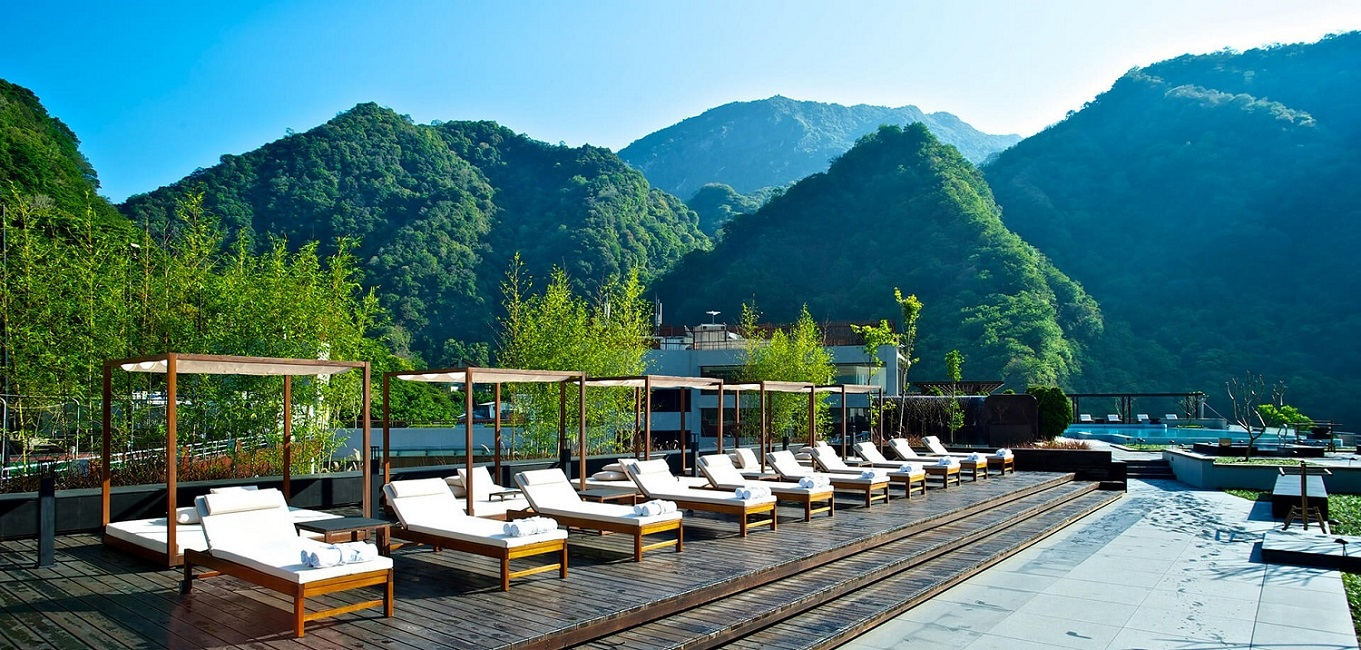
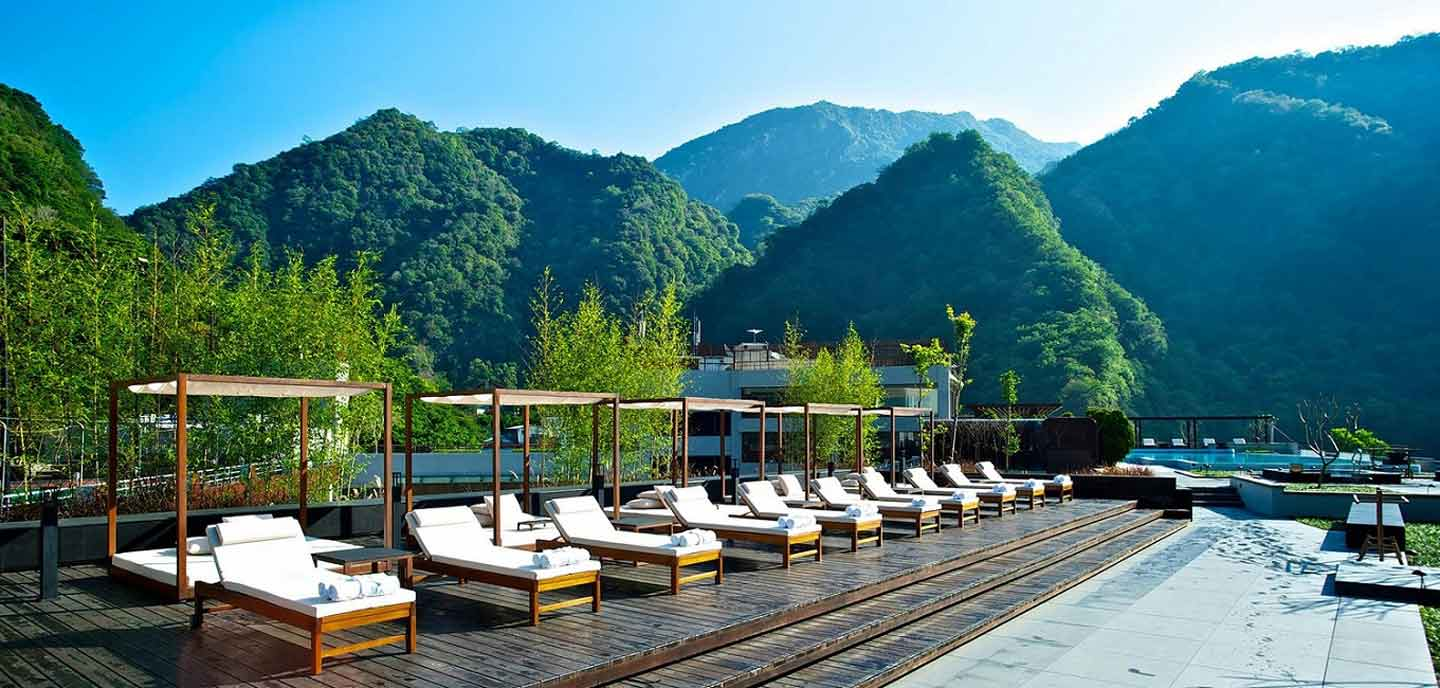
修改頁面大圖,刪除無用圖片

diff --git a/facility_page.html b/facility_page.html
@@ -29,7 +29,7 @@
                 <li><a href="./news_page.html">最新消息</a></li>
                 <li><a href="./room_page.html">房型介紹</a></li>
                 <li><a href="./restaurant_page.html">餐飲服務</a></li>
-                <li><a href="./facility_page.html">休閒設施</a></li>
+                <li class="current_page"><a href="./facility_page.html">休閒設施</a></li>
             </ul>
         </nav>
         <a href="##"> <span class="booking">線上訂房</span></a>
@@ -38,7 +38,7 @@
 
     <div class="banner_wrap">
         <div class="pic">
-            <img src="./images/facility_banner.jpg" alt="休閒設施橫幅圖">
+            <img src="./images/facility_banner.jpg" alt="">
         </div>
     </div>
 

diff --git a/css/slider.css b/css/slider.css
@@ -50,12 +50,12 @@
 }
 
 .slider_wrap .slider .slide.first_img {
-  background: url(../images/banner_2.png);
+  background: url(../images/home_banner2.jpg);
   background-size: cover;
   background-position: center;
 }
 .slider_wrap .slider .slide.sec_img {
-  background: url(../images/facility_banner2.jpg);
+  background: url(../images/facility_banner.jpg);
   background-size: cover;
   background-position: center;
 }

diff --git a/news_page.html b/news_page.html
@@ -36,7 +36,7 @@
 
 
     <div class="banner_wrap">
-        <div class="pic"><img src="./images/news_banner.png" alt="最新消息橫幅圖"></div>
+        <div class="pic"><img src="./images/news_banner.jpg" alt=""></div>
     </div>
 
     <h2 class="news_page_title">最新消息</h2>

diff --git a/room_page.html b/room_page.html
@@ -35,7 +35,7 @@
 
 
     <div class="banner_wrap">
-        <div class="pic"><img src="./images/room_banner.png" alt="房型橫幅圖"></div>
+        <div class="pic"><img src="./images/room_banner.jpg" alt=""></div>
     </div>
 
     <h2 class="room_title">房型介紹</h2>

diff --git a/restaurant_page.html b/restaurant_page.html
@@ -37,7 +37,7 @@
 
     <div class="banner_wrap">
         <div class="pic">
-            <img src="./images/restaurant_banner.png" alt="餐飲橫幅圖">
+            <img src="./images/restaurant_banner2.jpg" alt="">
         </div>
     </div>
 

diff --git a/css/facility_page.css b/css/facility_page.css
@@ -3,6 +3,15 @@
   text-shadow: #ccc 0.2em 0.2em 0.2em;
 }
 
+.banner_wrap {
+  width: 100%;
+}
+
+.banner_wrap .pic img {
+  width: 100%;
+  height: calc(100vh - 150px);
+}
+
 .facility_page_title {
   position: relative;
   font-size: 30px;

diff --git a/css/restaurant_page.css b/css/restaurant_page.css
@@ -3,6 +3,11 @@
   text-shadow: #ccc 0.2em 0.2em 0.2em;
 }
 
+.banner_wrap .pic img {
+  width: 100%;
+  height: calc(100vh - 150px);
+}
+
 .restaurant_page_title {
   position: relative;
   font-size: 30px;

diff --git a/css/room.css b/css/room.css
@@ -3,6 +3,11 @@
   text-shadow: #ccc 0.2em 0.2em 0.2em;
 }
 
+.banner_wrap .pic img {
+  width: 100%;
+  height: calc(100vh - 150px);
+}
+
 .room_title {
   position: relative;
   font-size: 30px;

diff --git a/css/news_page.css b/css/news_page.css
@@ -11,6 +11,10 @@
   font-weight: bold;
   margin: 5%;
 }
+.banner_wrap .pic img {
+  width: 100%;
+  height: calc(100vh - 150px);
+}
 
 .news_page_title::after {
   content: "";
